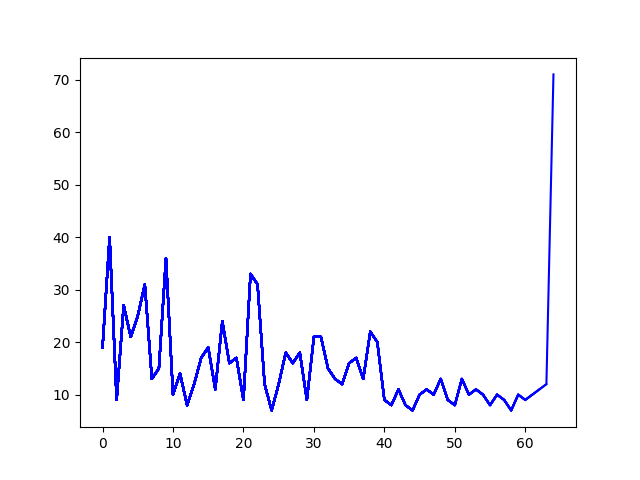
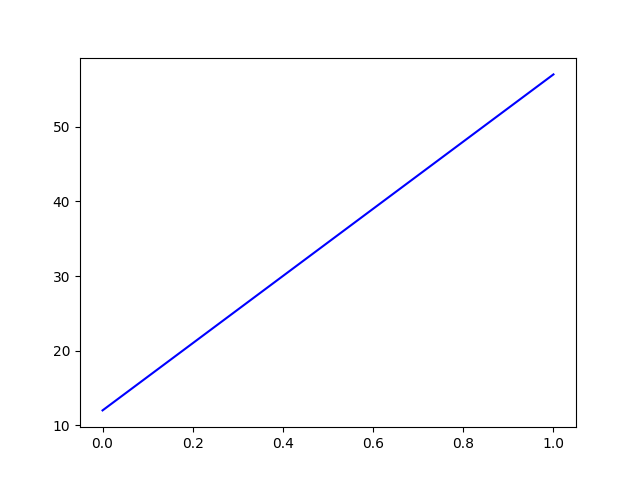
application can show leraning curve

diff --git a/play.py b/play.py
@@ -2,15 +2,24 @@ from settings import *
 import gym
 from AgentDQN import DQNAgent
 import numpy as np
-import pylab
 from PyQt5.QtCore import QThread
-import sys
+from PyQt5.QtCore import pyqtSignal
+from statistics import Statistics
 
 class Play(QThread):
 
-    def __init__(self,settigns:Settings):
+
+    signal_plot = pyqtSignal()
+    def __init__(self, settigns:Settings):
         QThread.__init__(self)
         self.settigns=settigns
+        self.statistics=Statistics(settigns.game_settings.episodes_batch_size,self.signal_plot)
+
+
+    def __del__(self):
+        self.wait()
+
+
 
     def run(self):
 
@@ -22,7 +31,7 @@ class Play(QThread):
 
         agent = DQNAgent(state_size, action_size)
 
-        scores, episodes = [], []
+
 
         for e in range(self.settigns.game_settings.max_episodes):
             done = False
@@ -54,14 +63,9 @@ class Play(QThread):
 
                     # every episode, plot the play time
                     score = score if score == 500 else score + 100
-                    scores.append(score)
-                    episodes.append(e)
-                    pylab.plot(episodes, scores, 'b')
-                    pylab.savefig("./cartpole_dqn.png")
-                    print("episode:", e, "  score:", score, "  memory length:",
-                          len(agent.memory), "  epsilon:", agent.epsilon)
+                    self.statistics.append_score(score)
 
-                    # if the mean of scores of last 10 episode is bigger than 490
-                    # stop training
-                    if np.mean(scores[-min(10, len(scores)):]) > 490:
-                        sys.exit()
+
+
+
+

diff --git a/mainWindow.py b/mainWindow.py
@@ -18,9 +18,9 @@ class Ui_main_window(object):
         self.plot.setObjectName("plot")
         self.gridLayout = QtWidgets.QGridLayout(self.plot)
         self.gridLayout.setObjectName("gridLayout")
-        self.graph = QtWidgets.QWidget(self.plot)
-        self.graph.setObjectName("graph")
-        self.gridLayout.addWidget(self.graph, 0, 1, 1, 1)
+        self.curve_view = QtWidgets.QLabel(self.plot)
+        self.curve_view.setObjectName("curve_view")
+        self.gridLayout.addWidget(self.curve_view, 0, 0, 1, 1)
         main_window.setCentralWidget(self.plot)
         self.menubar = QtWidgets.QMenuBar(main_window)
         self.menubar.setGeometry(QtCore.QRect(0, 0, 800, 22))
@@ -80,6 +80,7 @@ class Ui_main_window(object):
     def retranslateUi(self, main_window):
         _translate = QtCore.QCoreApplication.translate
         main_window.setWindowTitle(_translate("main_window", "Środowisko do testów algrytmow uczenia ze wzmocnieniem"))
+        self.curve_view.setText(_translate("main_window", "TextLabel"))
         self.menu_agent.setTitle(_translate("main_window", "Agent"))
         self.menu_environment.setTitle(_translate("main_window", "Gry"))
         self.menu_start.setTitle(_translate("main_window", "Uruchom"))

diff --git a/main.py b/main.py
@@ -1,5 +1,6 @@
-
+from statistics import Statistics
 from PyQt5 import QtWidgets,QtCore
+from PyQt5.QtGui import QIcon, QPixmap
 import sys
 from PyQt5.QtWidgets import QApplication,QDialog,QLabel
 from mainWindow import Ui_main_window
@@ -11,6 +12,7 @@ import play
 class Gui:
     def __init__(self, window, settings: Settings):
         self.ui = Ui_main_window()
+        self.main_window=window
         self.ui.setupUi(window)
         self.add_actions()
         self.settigns=settigns
@@ -28,10 +30,19 @@ class Gui:
         self.learning_ui.confirm_box.rejected.connect(self.reject_start_learning)
         self.learning_window.show()
 
+    def plot(self):
+        pixmap = QPixmap('new_curve.png')
+        self.ui.curve_view.setPixmap(pixmap)
+        self.main_window.repaint()
 
     def accept_start_learning(self):
+
         self.game=play.Play(self.settigns)
+        self.game.statistics.signal_plot.connect(self.plot)
         self.game.start()
+
+        self.learning_window.close()
+
 
 
     def reject_start_learning(self):
@@ -61,4 +72,5 @@ if __name__ == "__main__":
     gui=Gui(window,settigns)
     b=gui.ui.menubar.actions()
     window.show()
+
     sys.exit(app.exec_())

diff --git a/statistics.py b/statistics.py
@@ -1,0 +1,37 @@
+import numpy as np
+from PyQt5.QtCore import pyqtSignal
+import matplotlib.pyplot as plt
+class Statistics():
+
+    signal_plot = pyqtSignal()
+    def __init__(self,episodes_batch_size,signal):
+        """
+        episodes_batch_size z ilu ostatnich epizoodów wyciągamy średnią
+
+        """
+        self.episodes_batch_size=episodes_batch_size
+
+        self.score_list=[]
+        self.last_score_batch=[]
+        self.batches_means=[]
+        self.signal_plot=signal
+
+
+    def append_score(self,score):
+        self.score_list.append(score)
+        self.last_score_batch.append(score)
+        if (self.score_list.__len__()-1)%self.episodes_batch_size==0:
+            self.last_score_batch_table=np.asarray(self.last_score_batch)
+            mean_from_batch=self.last_score_batch_table.mean()
+            self.batches_means.append(mean_from_batch)
+            self.last_score_batch=[]
+            plt.plot(np.arange(self.batches_means.__len__()), self.batches_means)
+            plt.savefig('new_curve.png')
+            self.signal_plot.emit()
+
+
+
+
+
+
+

diff --git a/settings.py b/settings.py
@@ -4,9 +4,11 @@ class AgentSettings():
 
 
 class GameSettings():
-    def __init__(self,max_episodes=1000,accuracy=90):
+    def __init__(self,max_episodes=1000,accuracy=90,episodes_batch_size=10):
         self.max_episodes = max_episodes
         self.target_accuracy=accuracy
+        self.episodes_batch_size=episodes_batch_size
+
 
 
 class Settings():
